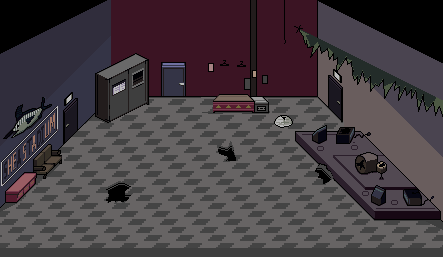
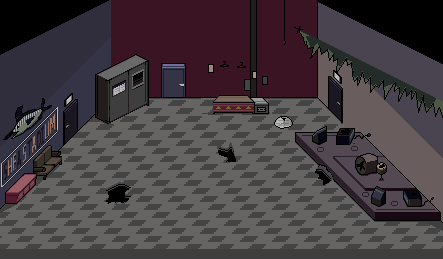
Timeline events
somehow solved the loading error, but I have to make a main menu at the beggining.
added the bloom effect

diff --git a/scripts/mainScene.js b/scripts/mainScene.js
@@ -8,10 +8,13 @@ let AKey;
 let SKey;
 let DKey;
 let WKey;
-
+let bloom;
 
 let poly;
 let background;
+
+let joystickLocked=true;
+let buttonsLocked=false;
 
 var mainScene = new Phaser.Class({
 
@@ -25,6 +28,8 @@ var mainScene = new Phaser.Class({
 
     preload: function(){
         this.load.image("background_1","./assets/images/base1.png");
+        this.load.image("background_2","./assets/images/base2.png");
+        this.load.image("bloom","./assets/images/lights_bloom.png");
 
         this.load.spritesheet("discoBall","./assets/images/disco ball.png",{frameWidth:36,frameHeight:36}); //ball
         this.load.spritesheet("blueGuy" , "./assets/images/guy blue sprites.png",{frameWidth:36,frameHeight:36}); // blue character
@@ -36,11 +41,21 @@ var mainScene = new Phaser.Class({
         this.load.image("table" , "./assets/images/table.png");
         this.load.image("speakers" , "./assets/images/speakers.png");
 
+        this.load.audio("song" , "./assets/audio/Gutted.mp3");
+
+
+        this.load.on('progress', function (value) {
+            loadingMain=value;
+        });
+                    
+        
     },
 
     create: function(){
         background = this.add.image(0,0,"background_1").setOrigin(0,0);
+        bloom=this.add.image(0,0,"bloom").setOrigin(0,0);
         player["avatar"]= this.add.sprite(player.x, player.y , "blueGuy" , 0);
+        
 
 
         //----------------------------------------     Player Blue shirt
@@ -445,22 +460,122 @@ var mainScene = new Phaser.Class({
         this.cameras.main.startFollow(player.avatar, true)
         this.cameras.main.setBounds(0,20,440,250 );
 
+        
+        loadingMain=2;
+        buttonsLocked=true;
+        this.sound.add('song').play();
+
+
+        // --------------------------- T I M E      E V E N T S
+        timedEvent = this.time.delayedCall(50, ()=>{
+            showDialogue("This is one of my favorite spots, Shea Stadium.");
+            
+        });
+        timedEvent = this.time.delayedCall(3900, ()=>{
+            showDialogue("I wonder what’s happening tonight, let’s ask around.");
+        });
+
+        timedEvent = this.time.delayedCall(8000,()=>{
+            joystickLocked=false;
+            buttonsLocked=false;
+        })
+
+        timedEvent = this.time.delayedCall(16000, ()=>{
+            background.setTexture("background_2")
+        });
+
+        timedEvent = this.time.delayedCall(16100, ()=>{
+            background.setTexture("background_1")
+        });
+
+        timedEvent = this.time.delayedCall(45000, ()=>{
+            background.setTexture("background_2")
+        });
+        timedEvent = this.time.delayedCall(45100, ()=>{
+            background.setTexture("background_1")
+        });
+
+        timedEvent = this.time.delayedCall(60000, ()=>{
+            background.setTexture("background_2")
+        });
+        timedEvent = this.time.delayedCall(60100, ()=>{
+            background.setTexture("background_1")
+        });
+
+        timedEvent = this.time.delayedCall(65000, ()=>{
+            background.setTexture("background_2")
+        });
+        timedEvent = this.time.delayedCall(65100, ()=>{
+            background.setTexture("background_1")
+        });
+        timedEvent = this.time.delayedCall(70000, ()=>{
+            background.setTexture("background_2")
+        });
+        timedEvent = this.time.delayedCall(70100, ()=>{
+            background.setTexture("background_1")
+        });
+        timedEvent = this.time.delayedCall(74000, ()=>{
+            background.setTexture("background_2")
+        });
+        timedEvent = this.time.delayedCall(74100, ()=>{
+            background.setTexture("background_1")
+        });
+
+        timedEvent = this.time.delayedCall(76000, ()=>{
+            background.setTexture("background_2")
+        });
+        timedEvent = this.time.delayedCall(76100, ()=>{
+            background.setTexture("background_1")
+        });
+        timedEvent = this.time.delayedCall(77000, ()=>{
+            background.setTexture("background_2")
+        });
+        timedEvent = this.time.delayedCall(77100, ()=>{
+            background.setTexture("background_1")
+        });
+
+        timedEvent = this.time.delayedCall(72000, ()=>{
+            sleepEveryone();
+            //-------------ADD LIGHT EFFECTS!
+        });
+        timedEvent = this.time.delayedCall(77000, ()=>{
+            buttonsLocked=true;
+            joystickLocked=true;
+            showDialogue("What the hell is happening? We have to wake these people up!");
+        });
+        timedEvent = this.time.delayedCall(81000, ()=>{ 
+            buttonsLocked=false;
+            joystickLocked=false;
+            showScore();
+        })
+
+        timedEvent = this.time.delayedCall(174000, ()=>{
+            background.setTexture("background_2")
+            buttonsLocked=true;
+            joystickLocked=true;
+         })
+
     },
 
     update: function(time,delta){
-        if (downKey.isDown || SKey.isDown){
-            player.move(down)
-        }
-        if (upKey.isDown || WKey.isDown){
-            player.move(up)
-        }
-        if (rightKey.isDown || DKey.isDown){
-            player.move(right)
-        }
-        if (leftKey.isDown || AKey.isDown){
-            player.move(left)
+        if(loadingMain!==1 && loadingHUD!==1) return 
+        if(!joystickLocked)
+        {       
+            if (downKey.isDown || SKey.isDown){
+                player.move(down)
+            }
+            if (upKey.isDown || WKey.isDown){
+                player.move(up)
+            }
+            if (rightKey.isDown || DKey.isDown){
+                player.move(right)
+            }
+            if (leftKey.isDown || AKey.isDown){
+                player.move(left)
+            }
         }
 
-
+  
+        bloom.alpha=(((Math.sin(time/1000)+1)/2))
     }
 })

diff --git a/scripts/hud.js b/scripts/hud.js
@@ -21,8 +21,6 @@ let nextText;
 let testVariable=false;
 let PKey;
 
-let everybodyIsSleep=false;
-let timeToSleep=999999;
 
 let timeShowingDialog=0;
 
@@ -45,6 +43,12 @@ var hud = new Phaser.Class({
     },
     
     preload: function(){
+
+        this.load.on('progress', function (value) {
+            loadingHUD=value;
+        });
+
+
         this.load.image("messageBoard" , "./assets/images/dialogue window rectangle.png");      // dialogue window       
         this.load.bitmapFont('Antenna', 'assets/fonts/antenna.png', 'assets/fonts/antenna.xml');		//load the font
         this.load.spritesheet("ZZZIcon" , "./assets/images/white z.png" , {frameWidth:36 , frameHeight:36} ) // zzz when sleeping
@@ -86,13 +90,24 @@ var hud = new Phaser.Class({
         buttonInteractText=this.add.text(800,450,"talk to",{ fontFamily: 'ZCOOL QingKe HuangYou' }).setFontSize(20);
         buttonInteractText.setOrigin(0.5,0.5);
 
-        hideDialogue();
+        showingDialogue=false;
+        textTitle.visible=false;
+        textDialogue.visible=false;
+        textInstruction.visible=false;
+        dialogueWindow.visible=false;
+
+
+
+
 
         // ----------------- Score
           
         scoreText=this.add.text(800 ,55 ,score,{ fontFamily: 'ZCOOL QingKe HuangYou' }).setFontSize(30);
+        scoreText.visible=false;
         iconZZZ=this.add.image(770,80 , "ZZZIcon" , [1]);
+        iconZZZ.visible=false;
         scoreTitleText=this.add.text(760 ,10,"SCORE",{ fontFamily: 'ZCOOL QingKe HuangYou' }).setFontSize(35);
+        scoreTitleText.visible=false;
         iconZZZ.scaleX=3;
         iconZZZ.scaleY=3;
 
@@ -151,6 +166,9 @@ var hud = new Phaser.Class({
 
     update: function(t,delta){
 
+        if(loadingMain!==2 || loadingHUD!==1) {console.log("loading"); return false}
+
+
         if(PKey.isDown && !testVariable) {              // ONLY FOR TESTING
             NPCS.forEach((el)=>{
                 el.timeToDisappear=time+Math.random()*10000+5000;
@@ -165,11 +183,6 @@ var hud = new Phaser.Class({
 
         if (showingDialogue && timeShowingDialog>4000) hideDialogue();
 
-
-        if(t>timeToSleep && !everybodyIsSleep){
-            sleepEveryone();
-            everybodyIsSleep=true;
-        }
 
         let nearest=minDistance();
         if(nearest[0]<radiusInteraction && nearest[1].sleeping!==2){
@@ -212,7 +225,8 @@ var hud = new Phaser.Class({
     } ,
         
     dumpJoyStickState: function() {
-        player.moveJoystic(this.joyStick.forceX,this.joyStick.forceY)
+        if(!joystickLocked)
+            player.moveJoystic(this.joyStick.forceX,this.joyStick.forceY)
     }   
     
 })
@@ -236,13 +250,25 @@ function hideDialogue(){
     }
 }
 
-function showDialogue(){
+function showDialogue(message){
+    if (message!=null){
+        textDialogue.text=message;
+        textTitle.text="Guy Blue"
+        timeShowingDialog=0;
+    }
     showingDialogue=true;
     textTitle.visible=true;
     textDialogue.visible=true;
     textInstruction.visible=true;
     dialogueWindow.visible=true;
 }
+
+function showScore(){
+    iconZZZ.visible=true;
+    scoreText.visible=true;
+    scoreTitleText.visible=true;
+}
+
 
 function interact(){
     let nearest=minDistance();
@@ -290,7 +316,6 @@ function interact(){
             score++;
             scoreText.text="x " + score;
         }   
-
     }
 }
 

diff --git a/scripts/objects.js b/scripts/objects.js
@@ -241,7 +241,8 @@ function NpcLookPlayer(npc){
 
 function sleepEveryone(){
     NPCS.forEach((el)=>{
-        el.avatar.anims.play("sleep" + el.name);
+        if(el.avatar.anims!==undefined)
+            el.avatar.anims.play("sleep" + el.name);
         el.sleeping=1;
         el["zzz"].visible=true;
     })

diff --git a/scripts/init.js b/scripts/init.js
@@ -11,6 +11,8 @@ const config={
 	scene: [ mainScene ,hud ],
 	transparent: true
 }
+let loadingMain=0;
+let loadingHUD=0; 
 var Game;
 function initGame(){
 	Game=new Phaser.Game(config);
